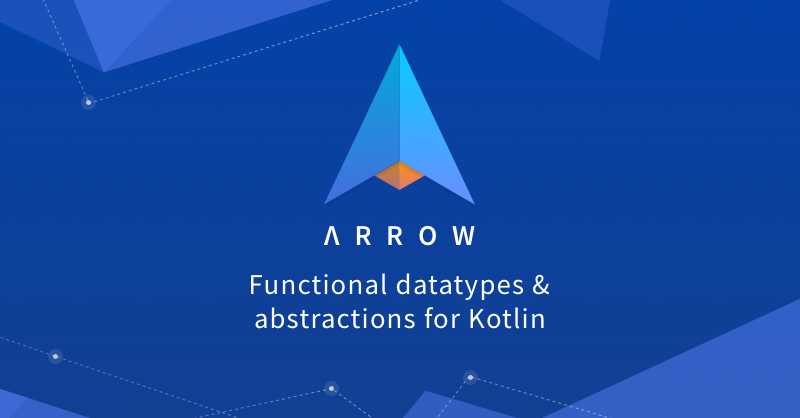
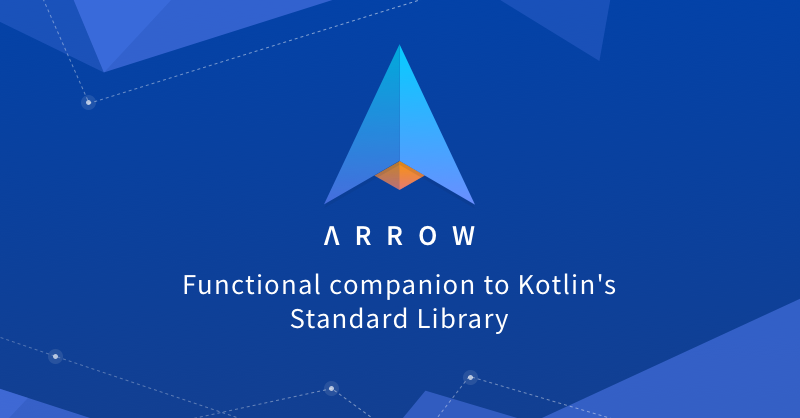
fix quote + poster

Changed region(s): [[0.2188, 0.6531, 0.7812, 0.8086]]

diff --git a/arrow-docs/docs/_includes/_head.html b/arrow-docs/docs/_includes/_head.html
@@ -1,23 +1,23 @@
 <head>
-  <meta charset=“UTF-8”>
+  <meta charset="UTF-8">
    <title>{{site.data.commons.name}}</title>
-   <meta name=“viewport” content=“width=device-width, initial-scale=1.0”>
-   <meta name=“description” content=“{{site.data.commons.description}}“>
-   <meta name=“keywords” content=“{{site.data.commons.keywords}}“>
+   <meta name="viewport" content="width=device-width, initial-scale=1.0">
+   <meta name="description" content="{{site.data.commons.description}}">
+   <meta name="keywords" content="{{site.data.commons.keywords}}">
 
-  <meta property=“og:image” content=“http://arrow-kt.io/img/poster.png” />
-   <meta property=“og:title” content=“{{site.data.commons.name}}” />
-   <meta property=“og:site_name” content=“{{site.data.commons.name}}” />
-   <meta property=“og:url” content=“http://arrow-kt.io/” />
-   <meta property=“og:type” content=“website” />
-   <meta property=“og:description” content=“{{site.data.commons.description}}” />
-   <meta property=“og:keywords” content=“{{site.data.commons.keywords}}” />
+  <meta property="og:image" content="http://arrow-kt.io/img/poster.png"/>
+   <meta property="og:title" content="{{site.data.commons.name}}" />
+   <meta property="og:site_name" content="{{site.data.commons.name}}" />
+   <meta property="og:url" content="http://arrow-kt.io/" />
+   <meta property="og:type" content="website" />
+   <meta property="og:description" content="{{site.data.commons.description}}" />
+   <meta property="og:keywords" content="{{site.data.commons.keywords}}" />
 
-  <meta name=“twitter:text:description” content=“{{site.data.commons.description}}“/>
-   <meta name=“twitter:card” content=“summary_large_image”>
-   <meta name=“twitter:site” content=“@arrow_kt”>
-   <meta name=“twitter:creator” content=“@arrow_kt”>
-   <meta name=“twitter:image” content=“http://arrow-kt.io/img/twitter-card.png”/>
+  <meta name="twitter:text:description" content="{{site.data.commons.description}}"/>
+   <meta name="twitter:card" content="summary_large_image">
+   <meta name="twitter:site" content="@arrow_kt">
+   <meta name="twitter:creator" content="@arrow_kt">
+   <meta name="twitter:image" content="http://arrow-kt.io/img/twitter-card.png"/>
 
     <!-- Font Awesome -->
     <link href="https://cdnjs.cloudflare.com/ajax/libs/font-awesome/4.7.0/css/font-awesome.css" rel="stylesheet" type="text/css">
